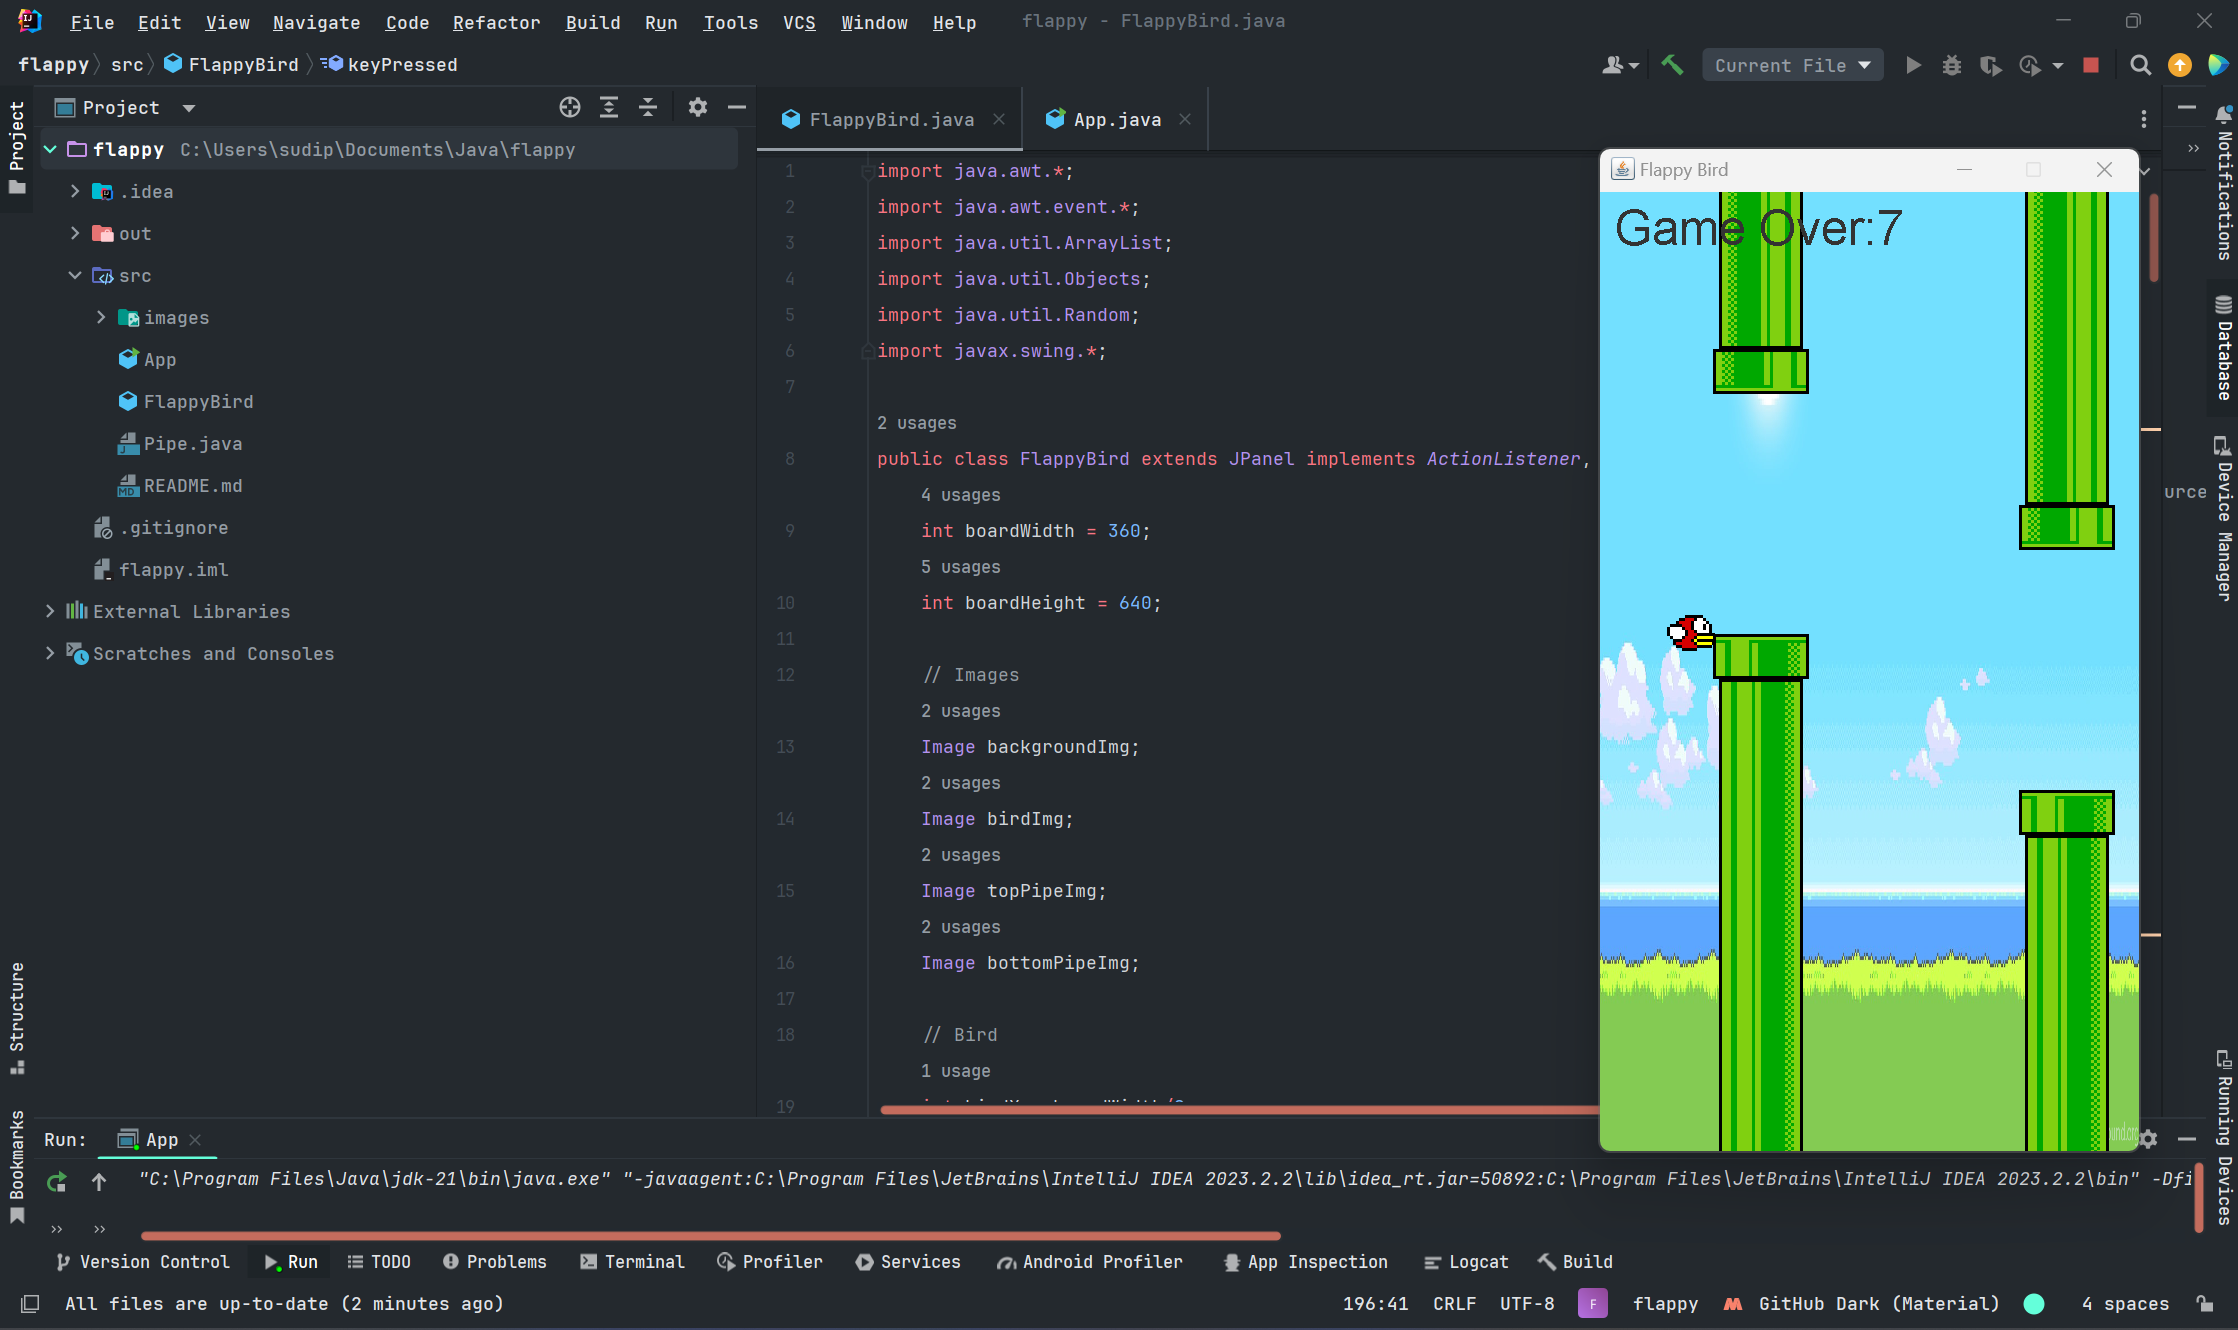
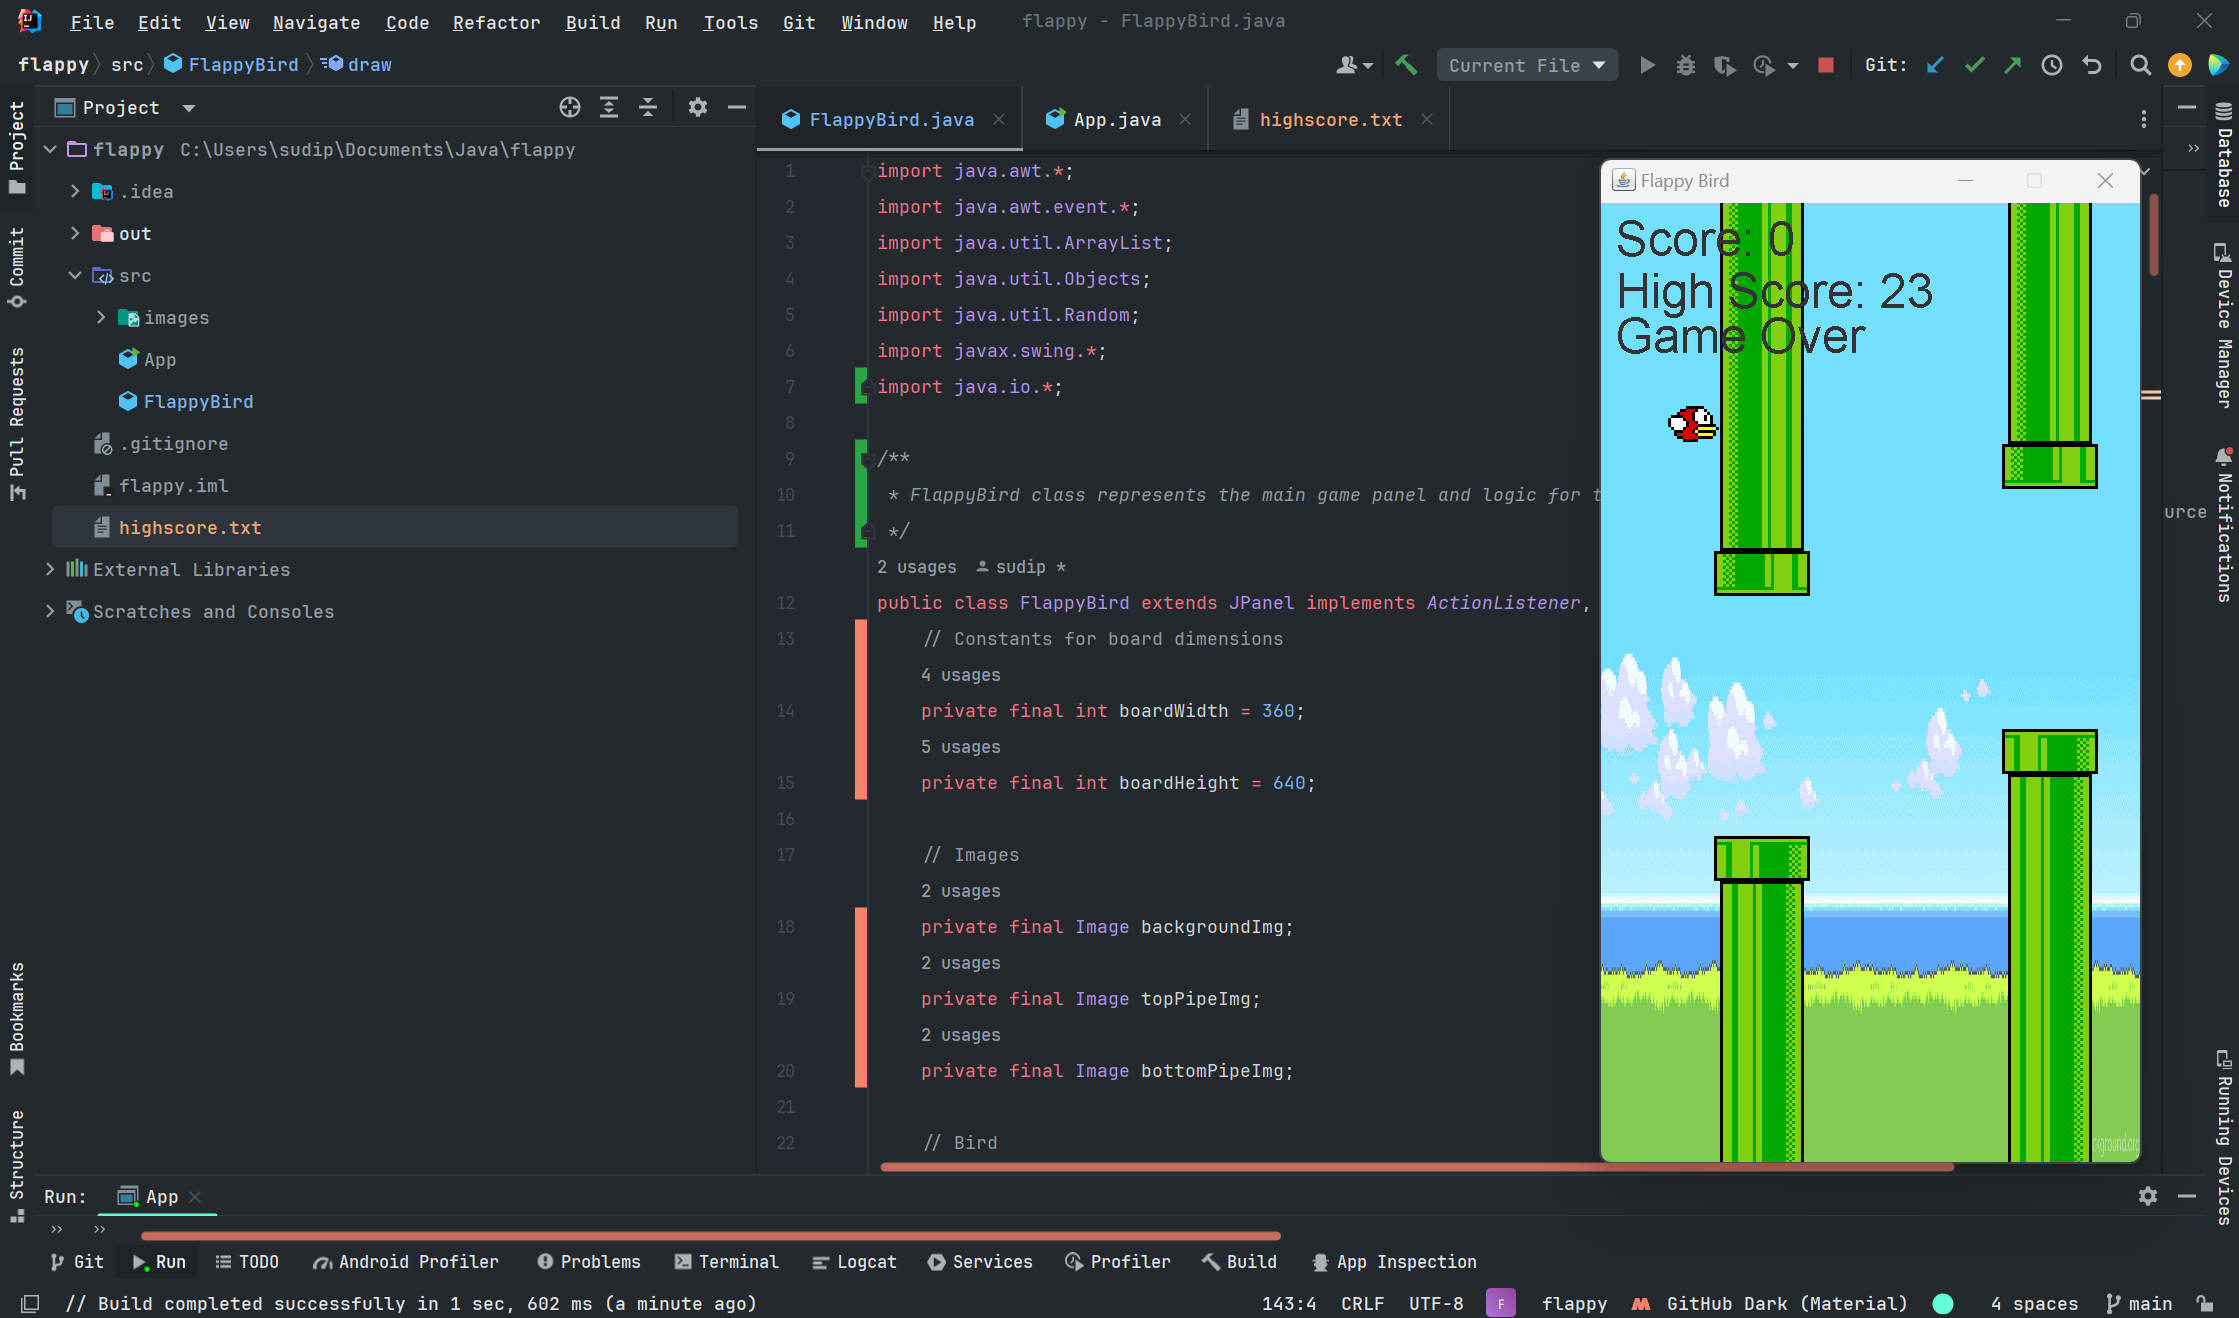
added highscore to the game

diff --git a/src/FlappyBird.java b/src/FlappyBird.java
@@ -4,24 +4,29 @@ import java.util.ArrayList;
 import java.util.Objects;
 import java.util.Random;
 import javax.swing.*;
+import java.io.*;
 
+/**
+ * FlappyBird class represents the main game panel and logic for the Flappy Bird game.
+ */
 public class FlappyBird extends JPanel implements ActionListener, KeyListener {
-    int boardWidth = 360;
-    int boardHeight = 640;
+    // Constants for board dimensions
+    private final int boardWidth = 360;
+    private final int boardHeight = 640;
 
     // Images
-    Image backgroundImg;
-    Image birdImg;
-    Image topPipeImg;
-    Image bottomPipeImg;
+    private final Image backgroundImg;
+    private final Image topPipeImg;
+    private final Image bottomPipeImg;
 
     // Bird
-    int birdX = boardWidth/8;
-    int birdY = boardHeight/2;
-    int birdW = 34;
-    int birdH = 24;
+    private final int birdX = boardWidth / 8;
+    private final int birdY = boardHeight / 2;
+    private final int birdW = 34;
+    private final int birdH = 24;
 
-    class Bird {
+    // Bird class representing the player
+    private class Bird {
         int x = birdX;
         int y = birdY;
         int width = birdW;
@@ -31,30 +36,28 @@ public class FlappyBird extends JPanel implements ActionListener, KeyListener {
         Bird(Image img) {
             this.img = img;
         }
-
     }
 
     // Game Logic
-    Bird bird;
-    int velocityX = -4; // This moves the pipes to the left speed (simulating bird moving right)
-    int velocityY = 0; // up and down bird movement
-    int gravity = 1;
+    private final Bird bird;
+    private int velocityY = 0;  // Vertical movement speed
 
-    ArrayList<Pipe> pipes;
-    Random random = new Random();
-    Timer gameLoop;
-    Timer placePipesTimer;
-    boolean gameOver = false;
-    double score = 0;
-
+    private ArrayList<Pipe> pipes;
+    private final Random random = new Random();
+    private final Timer gameLoop;
+    private final Timer placePipesTimer;
+    private boolean gameOver = false;
+    private double score = 0;
+    private int highScore = 0;  // Variable to store the high score
 
     // Pipes Logic
-    int pipeX = boardWidth;
-    int pipeY = 0;
-    int pipeW = 64;  //scaled by 1/6
-    int pipeH = 512;
+    private final int pipeX = boardWidth;
+    private final int pipeY = 0;
+    private final int pipeW = 64;  // Pipe width
+    private final int pipeH = 512; // Pipe height
 
-    class Pipe {
+    // Pipe class representing the obstacles
+    private class Pipe {
         int x = pipeX;
         int y = pipeY;
         int width = pipeW;
@@ -62,45 +65,61 @@ public class FlappyBird extends JPanel implements ActionListener, KeyListener {
         Image img;
         boolean passed = false;
 
-        Pipe(Image img){
+        Pipe(Image img) {
             this.img = img;
         }
-
     }
 
-    FlappyBird(){
-        setPreferredSize(new Dimension(boardWidth,boardHeight));
-//        setBackground(Color.blue);
+    /**
+     * Constructor for FlappyBird class.
+     * Initializes the game and sets up timers.
+     */
+    FlappyBird() {
+        setPreferredSize(new Dimension(boardWidth, boardHeight));
         setFocusable(true);
         addKeyListener(this);
 
         // Load Images
         backgroundImg = new ImageIcon(Objects.requireNonNull(getClass().getResource("./images/bg.png"))).getImage();
-        birdImg = new ImageIcon(Objects.requireNonNull(getClass().getResource("./images/bird.png"))).getImage();
+        Image birdImg = new ImageIcon(Objects.requireNonNull(getClass().getResource("./images/bird.png"))).getImage();
         topPipeImg = new ImageIcon(Objects.requireNonNull(getClass().getResource("./images/toppipe.png"))).getImage();
         bottomPipeImg = new ImageIcon(Objects.requireNonNull(getClass().getResource("./images/bottompipe.png"))).getImage();
 
-        // bird
+        // Bird
         bird = new Bird(birdImg);
         pipes = new ArrayList<>();
 
-        // place pipes timer
-        placePipesTimer = new Timer(1500, e -> placePipes());
+        // Load the high score
+        loadHighScore();
 
+        // Place pipes timer
+        placePipesTimer = new Timer(1500, e -> placePipes());
         placePipesTimer.start();
 
-        // game timer
-        gameLoop = new Timer(1000/60,this);
+        // Game loop timer
+        gameLoop = new Timer(1000 / 60, this);
         gameLoop.start();
     }
 
-    // Creating pipes
-    public void placePipes() {
-        // (0-256)
-        // 128
-        // 0 - 128 - (0-256) - pipeH/4 -> 3/4 pipeHeight
-        int randomPipeY = (int)(pipeY - pipeH /4 -Math.random()*(pipeH/2));
-        int openingSpace = boardHeight/4;
+    /**
+     * Loads the high score from a file.
+     */
+    private void loadHighScore() {
+        try {
+            BufferedReader reader = new BufferedReader(new FileReader("highscore.txt"));
+            highScore = Integer.parseInt(reader.readLine());
+            reader.close();
+        } catch (IOException | NumberFormatException e) {
+            System.err.println("Error loading high score: " + e.getMessage());
+        }
+    }
+
+    /**
+     * Creates pipes and adds them to the game.
+     */
+    private void placePipes() {
+        int randomPipeY = (int) (pipeY - pipeH / 4 - Math.random() * (pipeH / 2));
+        int openingSpace = boardHeight / 4;
 
         Pipe topPipe = new Pipe(topPipeImg);
         topPipe.y = randomPipeY;
@@ -111,62 +130,96 @@ public class FlappyBird extends JPanel implements ActionListener, KeyListener {
         pipes.add(bottomPipe);
     }
 
-    public void paintComponent(Graphics g){
+    /**
+     * Paints the game components on the panel.
+     */
+    public void paintComponent(Graphics g) {
         super.paintComponent(g);
         draw(g);
     }
 
+    /**
+            * Draws the game components on the panel.
+ */
     private void draw(Graphics g) {
-        // background
-        g.drawImage(backgroundImg, 0, 0, boardWidth,boardHeight, null);
-        g.drawImage(bird.img, bird.x,bird.y,bird.width,bird.height,null);
-
-        // drawing pipes
+        // Background
+        g.drawImage(backgroundImg, 0, 0, boardWidth, boardHeight, null);
+        // Bird
+        g.drawImage(bird.img, bird.x, bird.y, bird.width, bird.height, null);
+        // Pipes
         for (Pipe pipe : pipes) {
             g.drawImage(pipe.img, pipe.x, pipe.y, pipe.width, pipe.height, null);
         }
         // Score
-        g.setFont((new Font("Arial", Font.PLAIN,32)));
-        if(gameOver){
-            g.drawString("Game Over:"+ (int) score,10,35);
-        } else {
-            g.drawString(String.valueOf((int)score),10,35);
+        g.setFont(new Font("Arial", Font.PLAIN, 32));
+        g.drawString("Score: " + (int) score, 10, 35);
+        g.drawString("High Score: " + highScore, 10, 70);
+
+        if (gameOver) {
+            g.drawString("Game Over", 10, 100);
         }
     }
 
-    public  void move(){
-        // bird
+    /**
+     * Moves the bird and pipes, checks for collisions, and updates the game state.
+     */
+    private void move() {
+        // Bird movement
+        // Gravity effect
+        int gravity = 1;
         velocityY += gravity;
-       bird.y += velocityY;
-       bird.y = Math.max(bird.y,0);
+        bird.y += velocityY;
+        bird.y = Math.max(bird.y, 0);
 
-       // pipes
+        // Pipe movement and collision detection
         for (Pipe pipe : pipes) {
+            // Horizontal movement speed
+            int velocityX = -4;
             pipe.x += velocityX;
 
-            // Tracking Score
             if (!pipe.passed && bird.x > pipe.x + pipe.width) {
                 pipe.passed = true;
-                score += 0.5; // for 2 pipes 1: point
+                score += 0.5;
             }
 
-            // checking Collision
             if (collision(bird, pipe)) {
                 gameOver = true;
             }
         }
 
-        // GaveOver logic
-        if(bird.y> boardHeight){
+        // Game over logic
+        if (bird.y > boardHeight) {
             gameOver = true;
+        }
+
+        // Update high score if needed
+        if (score > highScore) {
+            highScore = (int) score;
+            saveHighScore();
         }
     }
 
-    public boolean collision(Bird a , Pipe b){
-        return a.x < b.x + b.width &&   //a's top left corner doesn't reach b's top right corner
-                a.x + a.width > b.x &&   //a's top right corner passes b's top left corner
-                a.y < b.y + b.height &&  //a's top left corner doesn't reach b's bottom left corner
-                a.y + a.height > b.y;    //a's bottom left corner passes b's top left corner
+    /**
+     * Checks for collision between the bird and pipes.
+     */
+    private boolean collision(Bird a, Pipe b) {
+        return a.x < b.x + b.width &&
+                a.x + a.width > b.x &&
+                a.y < b.y + b.height &&
+                a.y + a.height > b.y;
+    }
+
+    /**
+     * Saves the high score to a file.
+     */
+    private void saveHighScore() {
+        try {
+            BufferedWriter writer = new BufferedWriter(new FileWriter("highscore.txt"));
+            writer.write(Integer.toString(highScore));
+            writer.close();
+        } catch (IOException e) {
+            System.err.println("Error saving high score: " + e.getMessage());
+        }
     }
 
     @Override
@@ -174,19 +227,18 @@ public class FlappyBird extends JPanel implements ActionListener, KeyListener {
         move();
         repaint();
 
-        if(gameOver){
+        if (gameOver) {
             placePipesTimer.stop();
             gameLoop.stop();
         }
-
     }
+
     @Override
     public void keyPressed(KeyEvent e) {
-        if(e.getKeyCode() == KeyEvent.VK_SPACE){
+        if (e.getKeyCode() == KeyEvent.VK_SPACE) {
             velocityY = -9;
 
-            if(gameOver){
-               // Re-start Game
+            if (gameOver) {
                 bird.y = birdY;
                 velocityY = 0;
                 pipes.clear();
@@ -194,7 +246,6 @@ public class FlappyBird extends JPanel implements ActionListener, KeyListener {
                 gameOver = false;
                 gameLoop.start();
                 placePipesTimer.start();
-
             }
         }
     }
@@ -205,5 +256,4 @@ public class FlappyBird extends JPanel implements ActionListener, KeyListener {
     @Override
     public void keyReleased(KeyEvent e) {}
 }
-
 
